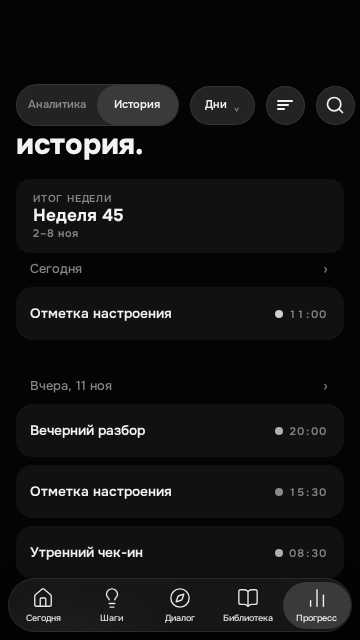
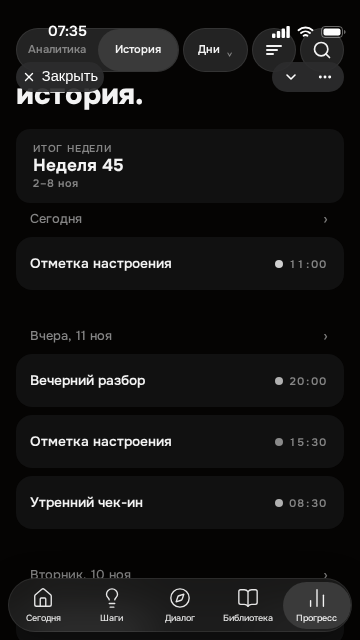
Исправить верстку и геометрию элементов в строке действий прогресса

diff --git a/src/screens/progress/ProgressAnalytics.css b/src/screens/progress/ProgressAnalytics.css
@@ -26,29 +26,46 @@
    z-index выше fade-слоя под шапкой (.mx-scroll-fade-top, 30) и ниже оверлеев
    записей и листов (90+). */
 
-/* Мобильное демо بدون рамки: бейдж демо-панели (fixed, top:12px, right:12px,
+/* Мобильное демо без рамки: бейдж демо-панели (fixed, top:12px, right:12px,
    z-index:9999) перекрывает правые кнопки строки. Сдвигаем строку ниже
    бейджа — только на реальном телефоне в демо без Telegram-рамки. */
 .mx-real-phone-demo .mx-app-shell:not(.mx-app-shell--fullscreen) .mx-progress-segment-bar {
   padding-top: var(--mx-space-12);
 }
 
+/* Одна строка во всю ширину контента: правого отступа у строки нет, поэтому
+   крайняя правая кнопка совпадает с правым краем карточек ниже, а сегмент —
+   с левым (--mx-screen-x). Зазоры — --mx-space-2: это первый шаг сжатия на
+   узком экране, при 11 px три кнопки «Истории» + сегмент не помещаются в
+   328 px контента на 360×640. */
 .mx-progress-actions-row {
   position: relative;
   display: flex;
   justify-content: space-between;
   align-items: center;
-  gap: 11px;
+  gap: var(--mx-space-2);
   width: 100%;
-  padding: 8px 3px 0 0;
+  padding: var(--mx-space-2) 0 0;
 }
 
-/* Кнопки активной вкладки — справа от сегмента (портал «Истории» тоже сюда) */
+/* Кнопки активной вкладки — справа от сегмента (портал «Истории» тоже сюда).
+   flex: none — кнопки не сжимаются: иначе контейнер ужимался, а кнопки
+   вылезали за его правый край (поиск на 360×640 уходил за поле экрана). */
 .mx-progress-actions-row__actions {
   display: flex;
+  flex: none;
   align-items: center;
-  gap: 11px;
-  min-width: 0;
+  gap: var(--mx-space-2);
+}
+
+/* 360×640: первый шаг сжатия по §5.5 — зазоры между кнопками 8 → 4.
+   Внутренние отступы сегмента и его ширина сжимаются в ProgressScreen.css. */
+@media (max-width: 380px) {
+  .mx-progress-actions-row,
+  .mx-progress-actions-row__actions,
+  .mx-progress-history-actions {
+    gap: var(--mx-space-1);
+  }
 }
 
 /* Пилюля периода в строке действий (справа) */
@@ -57,7 +74,7 @@
   display: inline-flex;
   align-items: center;
   gap: 6px;
-  height: 39px;
+  height: var(--mx-progress-actions-h);
   padding: 0 14px;
   border: 1px solid rgba(255, 255, 255, 0.08);
   border-radius: 999px;
@@ -83,8 +100,10 @@
 }
 
 /* ── Шапка вкладки ── */
+/* Зазор от строки кнопок до заголовка — один токен для обеих вкладок
+   (тот же --mx-space-2 стоит у .mx-progress-history в ProgressScreen.css). */
 .mx-progress-analytics {
-  padding-top: 8px;
+  padding-top: var(--mx-space-2);
 }
 
 .mx-progress-analytics__title {

diff --git a/src/screens/progress/ProgressScreen.css b/src/screens/progress/ProgressScreen.css
@@ -14,10 +14,16 @@
   background: transparent;
 }
 
+/* Высота сегмента — общий токен строки кнопок (как у пилюли и круглых кнопок).
+   Ширина: 177 px по §5.5, но на узком экране сегмент ужимается первым из
+   сегментов строки (flex-shrink) и никогда не становится уже своих подписей
+   (min-width: max-content) — текст «Аналитика» и «История» остаётся целиком. */
 .mx-progress-segment {
   display: grid;
-  width: 177px;
-  height: 42px;
+  flex: 0 1 177px;
+  width: auto;
+  min-width: max-content;
+  height: var(--mx-progress-actions-h);
   grid-template-columns: 1fr 1fr;
   padding: 0;
   border: 1px solid rgba(255, 255, 255, 0.08);
@@ -27,11 +33,13 @@
 
 .mx-progress-segment button {
   min-width: 0;
+  padding: 0 var(--mx-space-2);
   border: 0;
   border-radius: 999px;
   background: transparent;
   color: rgb(var(--c-muted, 133 133 133));
   font: inherit;
+  white-space: nowrap;
   font-size: max(11px, calc(13px * var(--mx-type-scale)));
   font-weight: 600;
   line-height: 1.2;
@@ -48,8 +56,10 @@
 
 /* ── Вкладка «История»: список по дням ── */
 
+/* Зазор от строки кнопок до заголовка — тот же токен, что у «Аналитики»
+   (.mx-progress-analytics в ProgressAnalytics.css): 8 px на обеих вкладках. */
 .mx-progress-history {
-  padding-top: var(--mx-space-1);
+  padding-top: var(--mx-space-2);
 }
 
 .mx-progress-history__title {
@@ -838,16 +848,18 @@
 
 .mx-progress-history-actions {
   display: flex;
+  flex: none;
   align-items: center;
   align-self: flex-end;
-  gap: 11px;
+  gap: var(--mx-space-2);
 }
 
 .mx-progress-grouping-pill {
   display: inline-flex;
+  flex: none;
   align-items: center;
   gap: 6px;
-  height: 39px;
+  height: var(--mx-progress-actions-h);
   padding: 0 14px;
   border: 1px solid rgba(255, 255, 255, 0.08);
   border-radius: 999px;
@@ -872,9 +884,10 @@
 
 .mx-progress-action-btn {
   display: grid;
+  flex: none;
   place-items: center;
-  width: 39px;
-  height: 39px;
+  width: var(--mx-progress-actions-h);
+  height: var(--mx-progress-actions-h);
   border: 1px solid rgba(255, 255, 255, 0.08);
   border-radius: 999px;
   background: var(--mx-glass-bg);
@@ -890,6 +903,16 @@
 .mx-progress-action-btn--active {
   background: rgb(var(--c-text, 243 243 243));
   color: rgb(var(--c-bg, 5 4 3));
+}
+
+/* 360×640: сегмент + пилюля «Недели» + фильтр + поиск шире строки контента.
+   Ужимаем по порядку §5.5: зазоры между кнопками (8 → 4, в
+   ProgressAnalytics.css) и внутренние отступы сегмента (8 → 4) — подписи
+   остаются целиком, шрифт и видимый размер круглых кнопок (44 px) не меняются. */
+@media (max-width: 380px) {
+  .mx-progress-segment button {
+    padding-inline: var(--mx-space-1);
+  }
 }
 
 /* ── Группировка: заголовки и карточки периодов (§5.5) ── */

diff --git a/src/index.css b/src/index.css
@@ -330,6 +330,10 @@
   --mx-btn-pill-h: 54px;
   --mx-btn-round-h: 45px;
   --mx-btn-glass-h: 49px;
+  /* Строка кнопок «Прогресса»: сегмент «Аналитика | История», пилюля
+     периода/группировки и круглые кнопки одной высоты. 44 px — это же
+     минимальная зона нажатия, поэтому отдельная невидимая область не нужна. */
+  --mx-progress-actions-h: 44px;
 
   /* Верх экрана под шапкой Telegram: safe-top + контролы (56) + воздух (16). */
   --mx-screen-top: calc(var(--app-safe-top) + 56px + 16px);

diff --git a/src/screens/Analytics.jsx b/src/screens/Analytics.jsx
@@ -1007,6 +1007,7 @@ export default function Analytics({
             <button
               type="button"
               role="tab"
+              className="mx-tap-target"
               data-testid="progress-tab-analytics"
               aria-selected={activeTab === 'analytics'}
               onClick={() => handleSegmentClick('analytics')}
@@ -1016,6 +1017,7 @@ export default function Analytics({
             <button
               type="button"
               role="tab"
+              className="mx-tap-target"
               data-testid="progress-tab-history"
               aria-selected={activeTab === 'history'}
               onClick={() => handleSegmentClick('history')}

diff --git a/DESIGN_SYSTEM.md b/DESIGN_SYSTEM.md
@@ -972,7 +972,9 @@ iPhone 440 pt, 1 pt = 3 px кадра. Проверка — на 393 и 440 px. 
 - Вкладка нижней навигации «Прогресс» открывает один экран с сегментом
   **«Аналитика | История»** наверху. Сегмент — тот же компонент и те же
   размеры, что «Значки | Статистика» на странице серии (§5.3, `SeriesBadges.jsx`):
-  177 × 42 px, активная плашка `--c-nav-active`, `.mx-type-segment`.
+  высота `--mx-progress-actions-h` (44 px, как у кнопок строки), ширина 177 px
+  с ужатием до `max-content` на узком экране, активная плашка
+  `--c-nav-active`, `.mx-type-segment`.
 - Вкладка по умолчанию — «Аналитика». Выбранная вкладка запоминается на
   время сессии. Переход из других мест в историю (например, «Все записи»)
   открывает «Прогресс» сразу на вкладке «История».
@@ -983,6 +985,10 @@ iPhone 440 pt, 1 pt = 3 px кадра. Проверка — на 393 и 440 px. 
   переключения вкладок. В Telegram своих кнопок «закрыть» нет.
 - Контент каждой вкладки прокручивается отдельно; сегмент при прокрутке
   остаётся на месте (липкая строка на фоне `--c-bg`).
+- Строка занимает всю ширину контента без правого отступа: левый край сегмента
+  и правый край последней кнопки совпадают с краями карточек ниже (допуск
+  1 px). Зазор от строки до заголовка страницы одинаков на обеих вкладках —
+  `--mx-space-2` (8 px).
 - Stoic показывает «History» и «Trends» отдельными вкладками таб-бара —
   у нас это одна вкладка (решение владельца).
 
@@ -990,8 +996,8 @@ iPhone 440 pt, 1 pt = 3 px кадра. Проверка — на 393 и 440 px. 
 
 | Элемент               | Значение                                                                                                                                                         |
 | --------------------- | ---------------------------------------------------------------------------------------------------------------------------------------------------------------- |
-| Круглая кнопка        | 44 × 44 px, радиус 999 px, фон `--c-card2`, иконка 20 px `--c-text`; крайняя правая в 20 px от края экрана, между кнопками 12 px (кадры `history-01`, `trends-01`) |
-| Пилюля-меню («Дни ⌄») | высота 44 px, ширина по тексту (≈ 91 px «Days», ≈ 102–107 px «Weeks»/«Months»), фон `--c-card2`, текст 14 px / 600 `--c-text` + шеврон 12 px, 12 px левее кнопок |
+| Круглая кнопка        | 44 × 44 px (`--mx-progress-actions-h`), радиус 999 px, фон `--c-card2`, иконка 20 px `--c-text`; крайняя правая совпадает с правым краем карточек контента (поля `--mx-screen-x`), между кнопками `--mx-space-2` (8 px), на `max-width: 380px` — `--mx-space-1` (кадры `history-01`, `trends-01`) |
+| Пилюля-меню («Дни ⌄») | высота `--mx-progress-actions-h` (44 px, как у круглых кнопок и сегмента), ширина по тексту (≈ 65 px «Дни», ≈ 83 px «Недели»), фон `--c-card2`, текст 14 px / 600 `--c-text` + шеврон 12 px |
 | Выпадающее меню       | открывается под пилюлей и перекрывает заголовок; ширина ≈ 250 px, радиус 16 px, фон `--c-nav` (полупрозрачный с размытием), строки ≈ 44 px, текст 17 px / 400; у выбранной строки галочка слева (кадры `history-02`, `trends-04`) |
 | Крупный заголовок     | строчными с точкой, 34 px / 700, `--c-text`                                                                                                                      |
 | Карточка              | поля экрана 16 px (ширина 408 px на 440), радиус 16 px, фон `--c-card2`, без рамки                                                                              |

diff --git a/qa-evidence/progress-actions-row/README.md b/qa-evidence/progress-actions-row/README.md
@@ -1,23 +1,35 @@
 # Переключатель «Аналитика | История» в строке кнопок вкладки
 
 Кадры приёмки задачи «Issue #N — Прогресс: переключатель в строке кнопок»
-(ветка `progress-segment-in-actions-row`, PR в `main`, без merge).
+(ветка `move-progress-segment`, PR #1197 в `main`, без merge).
 
 Съёмка: Chromium, demo-режим `?demo=1&frame=0&tab=trends`, демо-бейдж и
 переключатель вьюпорта скрыты (превью-артефакты, см. комментарии в
 `tests/ux/progress-segment-visibility.spec.mjs`).
 
-| Кадр                  | Что показывает                                                               |
-| --------------------- | ---------------------------------------------------------------------------- |
-| `393x852-analytics.png` | Слева сегмент «Аналитика \| История», справа пилюля «Недели ⌄»             |
-| `393x852-history.png`   | Слева тот же сегмент, справа группировка «Дни ⌄», фильтры и поиск          |
-| `360x640-analytics.png` | Узкий экран: сегмент и «Недели ⌄» в одной строке, текст не обрезан         |
-| `360x640-history.png`   | Узкий экран: сегмент и три кнопки «Истории» помещаются, без обрезки текста  |
+| Кадр                    | Что показывает                                                          |
+| ----------------------- | ----------------------------------------------------------------------- |
+| `393x852-analytics.png` | Слева сегмент «Аналитика \| История», справа пилюля «Недели ⌄»          |
+| `393x852-history.png`   | Слева тот же сегмент, справа группировка «Дни ⌄», фильтры и поиск       |
+| `360x640-analytics.png` | 360×640: сегмент и «Недели ⌄» в одной строке, края совпадают с карточкой |
+| `360x640-history.png`   | 360×640: сегмент и три кнопки «Истории» внутри полей, без обрезки текста |
 
-Автопроверка геометрии и краски строки — `npx playwright test
---config=playwright.progress-segment.config.mjs` (Chromium, demo): пять
-переключений вкладок подряд, `elementFromPoint` в центре пилюли, отсутствие
-наложения и обрезки текста на 360×640.
+Автопроверка — `npx playwright test --config=playwright.progress-segment.config.mjs`
+(Chromium, demo): пять переключений вкладок подряд, `elementFromPoint` в центре
+пилюли, а на 360×640 и 393×852 — числовые критерии строки: левый край сегмента
+и правый край последней кнопки внутри полей и на одной вертикали с карточками
+(допуск 1 px), зона нажатия каждого контрола ≥ 44×44, высоты сегмента, пилюли и
+круглых кнопок из одного токена, одинаковый зазор до заголовка на обеих
+вкладках.
+
+Правка после ревью (кадры пересняты): на 360×640 во вкладке «История» кнопка
+поиска выходила за правое поле (354 px при поле 344 px) — причина в
+`padding-right: 3px` строки и в том, что `.mx-progress-actions-row__actions`
+сжимался, а кнопки вылезали из него. Теперь правого отступа нет, кнопки не
+сжимаются (`flex: none`), сжимается только сегмент до `max-content`; зазор до
+заголовка одинаковый (8 px) на обеих вкладках. Замеры после правки: 360×640 —
+сегмент 16…179, поиск заканчивается на 344 (= правый край карточки); 393×852 —
+сегмент 16…193, последняя кнопка 377.
 
 Ручной gate остаётся за iPhone/Telegram: проверить, что пилюля не «исчезает»
 после переключений и при прокрутке ленты «Истории».

diff --git a/docs/engineering/notes/progress.md b/docs/engineering/notes/progress.md
@@ -17,14 +17,34 @@
 - `ProgressHistory` порталит свои кнопки (`history-*`) в
   `[data-testid="progress-row-actions"]`, а не в `.mx-progress-actions-row`:
   иначе `space-between` растаскивает вложенные узлы портала по строке.
-- Ширина строки на 360×640: сегмент 177 px + зазор 11 px + кнопки «Истории»
-  (пилюля группировки ≈ 70–80 px + два круга 39 px + зазоры) помещаются в
-  328 px контента. Уменьшать шрифт ниже токенов и прятать кнопки нельзя;
-  первым сжимается только зазор.
+- Высоты строки — один токен `--mx-progress-actions-h` (44 px) для сегмента,
+  пилюли периода/группировки и круглых кнопок. Это же минимальная зона
+  нажатия, поэтому отдельная невидимая область нужна только подписям сегмента
+  (`.mx-tap-target`, их высота 42 px внутри рамки).
+- Правого отступа у строки нет: крайняя правая кнопка должна совпадать с
+  правым краем карточек контента, левый край сегмента — с левым
+  (`--mx-screen-x`). Прежние `padding-right: 3px` и проверка «кнопки внутри
+  бокса контейнера» пропускали выход поиска за поле экрана: контейнер
+  сжимался, а кнопки вылезали из него.
+- Ширина на 360×640 (328 px контента): сегмент 177 px (сжимается до
+  `max-content`), зазор 8 px, кнопки «Истории» — пилюля 65–83 px + два круга
+  44 px + зазоры 8 px. Вся строка шире контента, поэтому на `max-width: 380px`
+  ужимаем по порядку: зазоры 8 → 4 px (`--mx-space-1`), затем внутренние
+  отступы сегмента 8 → 4 px. Шрифт, видимый размер круглых кнопок (44 px) и
+  состав кнопок не меняются. Самая тесная раскладка — «История» с группировкой
+  «Недели»: на 360 сегмент сжимается до 145 px, подписи остаются целиком.
+- Зазор от строки до заголовка — `--mx-space-2` (8 px) на обеих вкладках
+  (`.mx-progress-analytics` и `.mx-progress-history`); раньше у «Истории» было
+  4 px, и заголовок «история.» стоял вплотную к кнопкам.
 - Проверка: `npx playwright test --config=playwright.progress-segment.config.mjs`
   (Chromium, demo). Тест переключает вкладки 5 раз и проверяет краску пилюли
-  (`elementFromPoint` в центре), одинаковую строку с кнопками и отсутствие
-  обрезки текста на 360×640. Полный `ux:check` и WebKit — CI, iPhone — ручной gate.
+  (`elementFromPoint` в центре), а на 360×640 и 393×852 — числовые критерии:
+  края сегмента и последней кнопки внутри полей и на одной вертикали с
+  карточками (допуск 1 px), зона нажатия каждого контрола ≥ 44×44, высоты из
+  одного токена, одинаковый зазор до заголовка, отсутствие обрезки подписей.
+  Мутационная проверка: вернуть зазоры 11 px — тест падает на правом крае
+  (354 px при поле 344 px), то есть исходный дефект воспроизводится.
+  Полный `ux:check`, WebKit и визуальные эталоны — CI, iPhone — ручной gate.
 - В свежем web-контейнере браузера Playwright нет: перед первым прогоном
   `npx playwright install --with-deps chromium`.
 - Эталоны `playwright.progress-visual.config.mjs` в репозитории не хранятся:

diff --git a/docs/DESIGN_TOKENS.md b/docs/DESIGN_TOKENS.md
@@ -38,6 +38,7 @@
 | `--mx-btn-pill-h`  | 54px     | `<PillButton>`, CTA-пилюли               |
 | `--mx-btn-round-h` | 45px     | `<RoundNextButton>`, круглая отправка    |
 | `--mx-btn-glass-h` | 49px     | `<GlassButton>`, стеклянная кнопка       |
+| `--mx-progress-actions-h` | 44px | строка кнопок «Прогресса»: сегмент «Аналитика \| История», пилюля периода/группировки, круглые кнопки (это же минимальная зона нажатия) |
 
 ## Геометрия экрана
 
